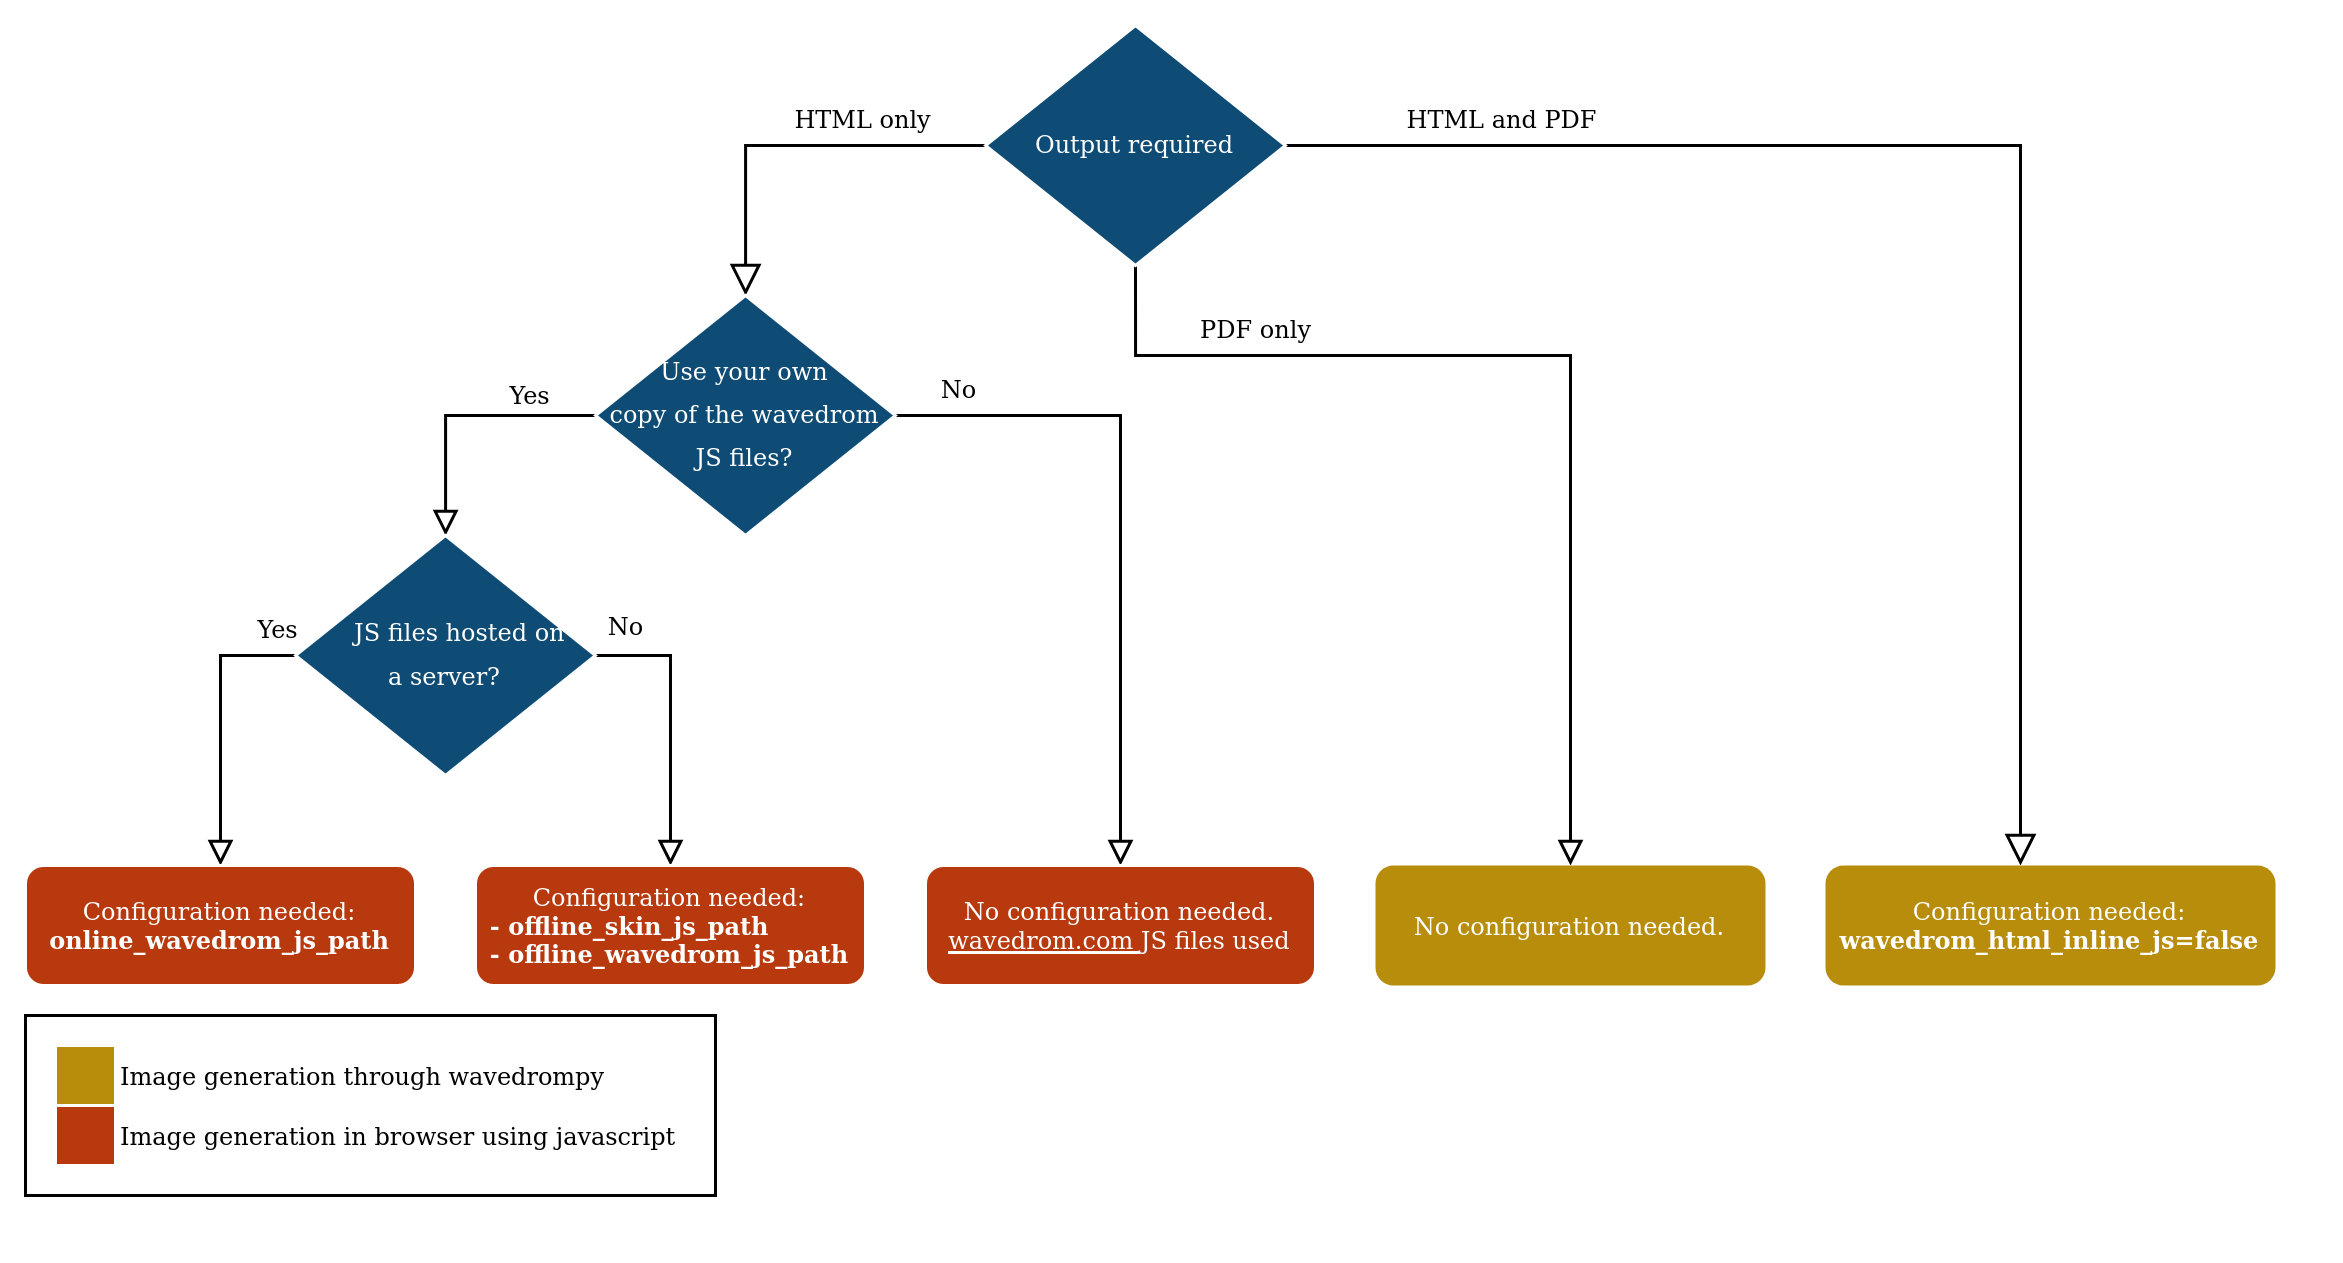
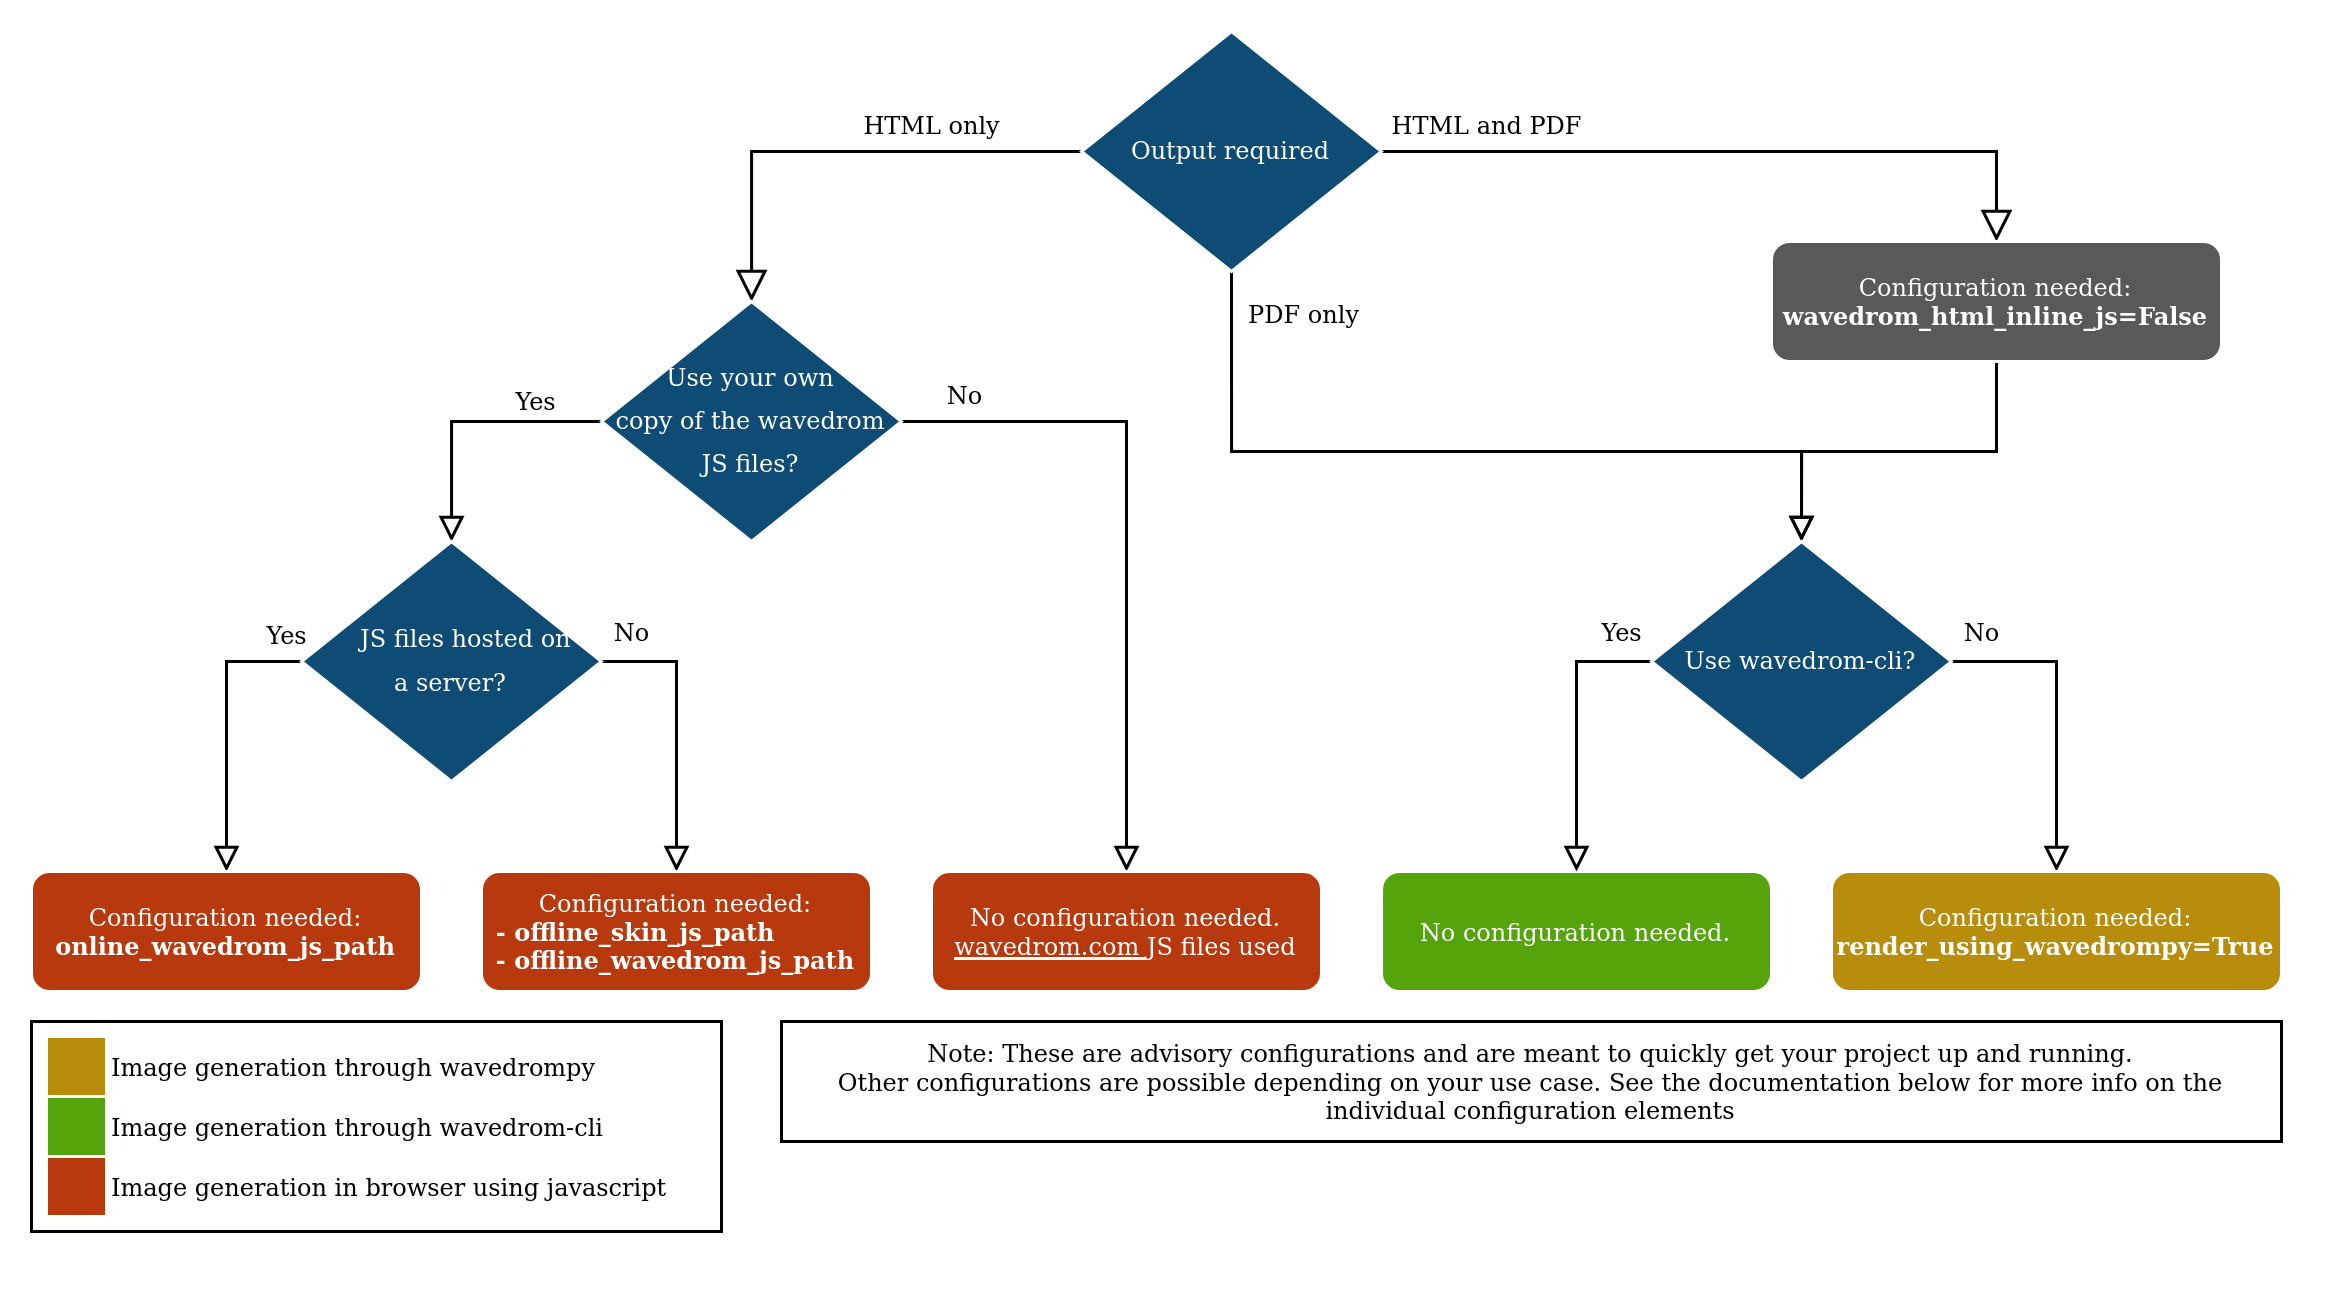
Documentation update

diff --git a/sphinxcontrib/wavedrom.py b/sphinxcontrib/wavedrom.py
@@ -191,7 +191,7 @@ def setup(app):
     app.add_config_value('online_wavedrom_js_url', "http://wavedrom.com", 'html')
     app.add_config_value('wavedrom_html_jsinline', True, 'html')
     app.add_config_value('wavedrom_cli', "npx wavedrom-cli", 'html')
-    app.add_config_value('wavedrompy_renderer', False, 'html')
+    app.add_config_value('render_using_wavedrompy', False, 'html')
     app.add_directive('wavedrom', WavedromDirective)
     app.connect('build-finished', build_finished)
     app.connect('builder-inited', builder_inited)

diff --git a/sphinxcontrib/wavedrom_render_image.py b/sphinxcontrib/wavedrom_render_image.py
@@ -79,7 +79,7 @@ def render_wavedrom_image(sphinx, node):
     outpath = os.path.join(sphinx.builder.outdir, sphinx.builder.imagedir)
 
     # Render the wavedrom image
-    if sphinx.builder.config.wavedrompy_renderer:
+    if sphinx.builder.config.render_using_wavedrompy:
         imgname = render_wavedrom_py(node, outpath, bname, image_format)
     else:
         imgname = render_wavedrom_cli(sphinx, node, outpath, bname, image_format)

diff --git a/README.rst b/README.rst
@@ -78,21 +78,38 @@ The extension can be configured to either directly output images or by emitting 
 wavedrom code, which obviously only works for HTML output. All other outputs (most notably ``latexpdf``) embed a
 generated image in any case, but this is only supported when using Python 3.
 
-For HTML output the configuration item ``wavedrom_html_jsinline`` (default: ``True``) can toggled to generate images
-instead of inline javascript code. You must add the following line to your ``conf.py``:
+Depending on the output you're building, the plugin will automatically choose the appropriate image rendering method
+(HTML defaults to browser rendering, pdf to build-time image generation). You can force the generation of build-time
+images by adding the following configuration to your ``conf.py``:
 
 ::
 
     wavedrom_html_jsinline = False
 
-or overwrite the setting on the command line, for example:
+This may be interesting in case you are building for various output targets and want to ensure consistent diagrams
+between all output formats
+
+Build-time image generation through wavedrompy or wavedrom-cli
+``````````````````````````````````````````````````````````````
+
+2 Tools are available for the build-time generation of images:
+
+- [wavedrom-cli](https://github.com/wavedrom/cli): The default builder. This is the tool maintained by the wavedrom
+  team itself. More bloaty than wavedrompy as it requires node.js and npm to install and use, but more likely to render
+  consistent images w.r.t. the browser-rendered version.
+- [wavedrompy](https://github.com/wallento/wavedrompy): A python "clone" of wavedrompy. The goal of the project is to
+  stay as close as possible to the JS implementation, but offer a solution that doesn't require node.js or npm to be
+  installed.
+
+As mentioned, wavedrom-cli is the default builder. If you want to select wavedrompy instead, add the following
+configuration to your ``conf.py``:
 
 ::
 
-    sphinx-build -b html -D wavedrom_html_jsinline=0 sources build/html
+    render_using_wavedrompy = True
 
-HTML: Inline Javascript
-```````````````````````
+Browser-rendered images through inline Javascript
+`````````````````````````````````````````````````
 
 When HTML building is configured to inline the javascript (default), the extension can work in 2 modes:
 
@@ -110,7 +127,7 @@ conf.py:
 
 **Warning**: A full URI is needed when configuring. "http://www.google.com" will work but "www.google.com" won't.
 
-If offline mode is desired, the following parameters need to be provided:
+If offline mode is desired, the following configuration parameters need to be provided:
 
 - **offline_skin_js_path** : the path to the skin javascript file (the url to the online version is "http://wavedrom.com/skins/default.js")
 - **offline_wavedrom_js_path** : the path to the wavedrom javascript file (the url to the online version is "http://wavedrom.com/WaveDrom.js")
